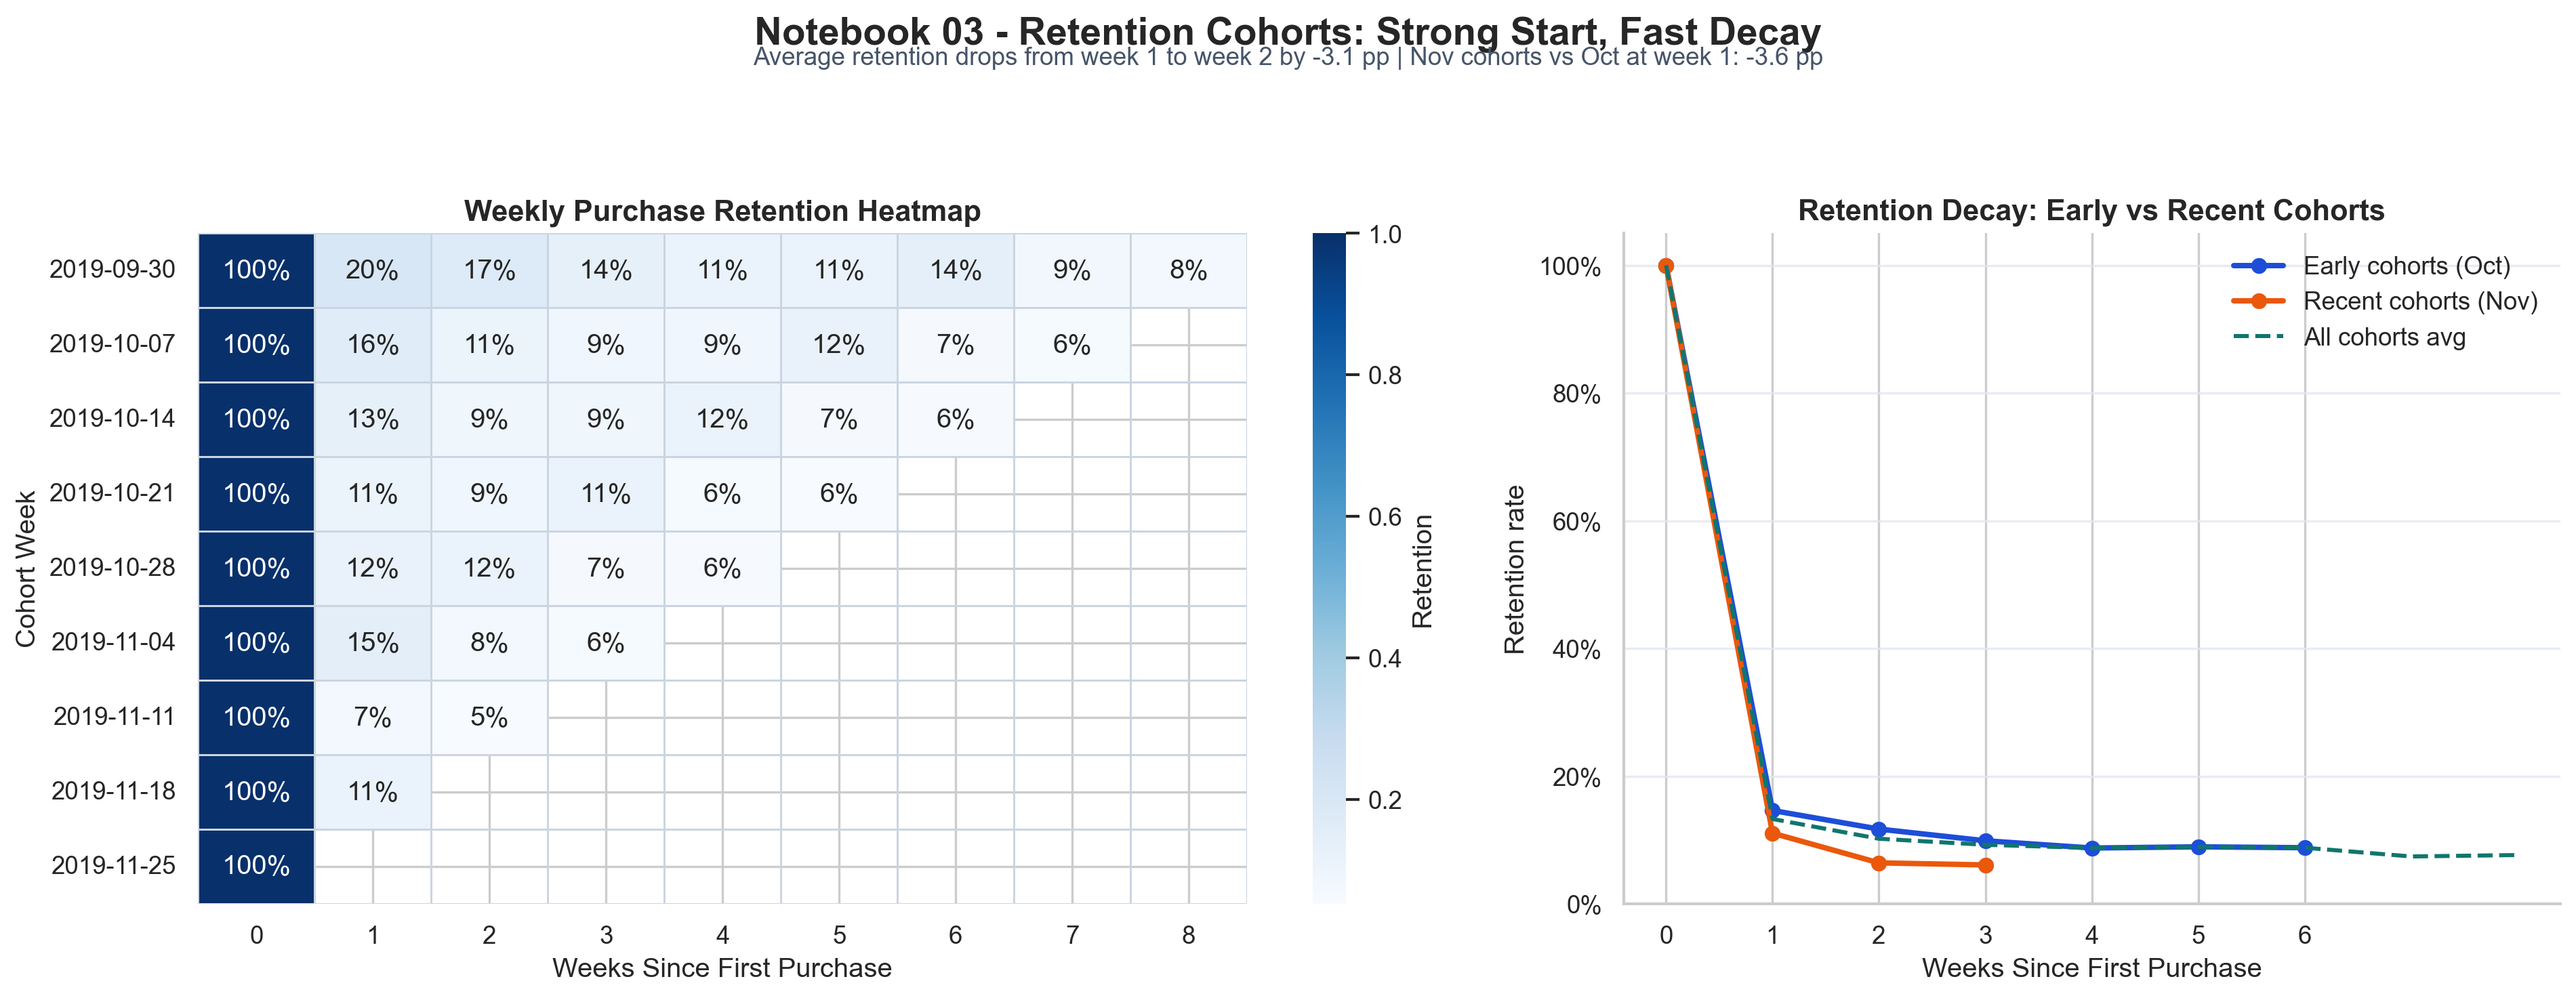
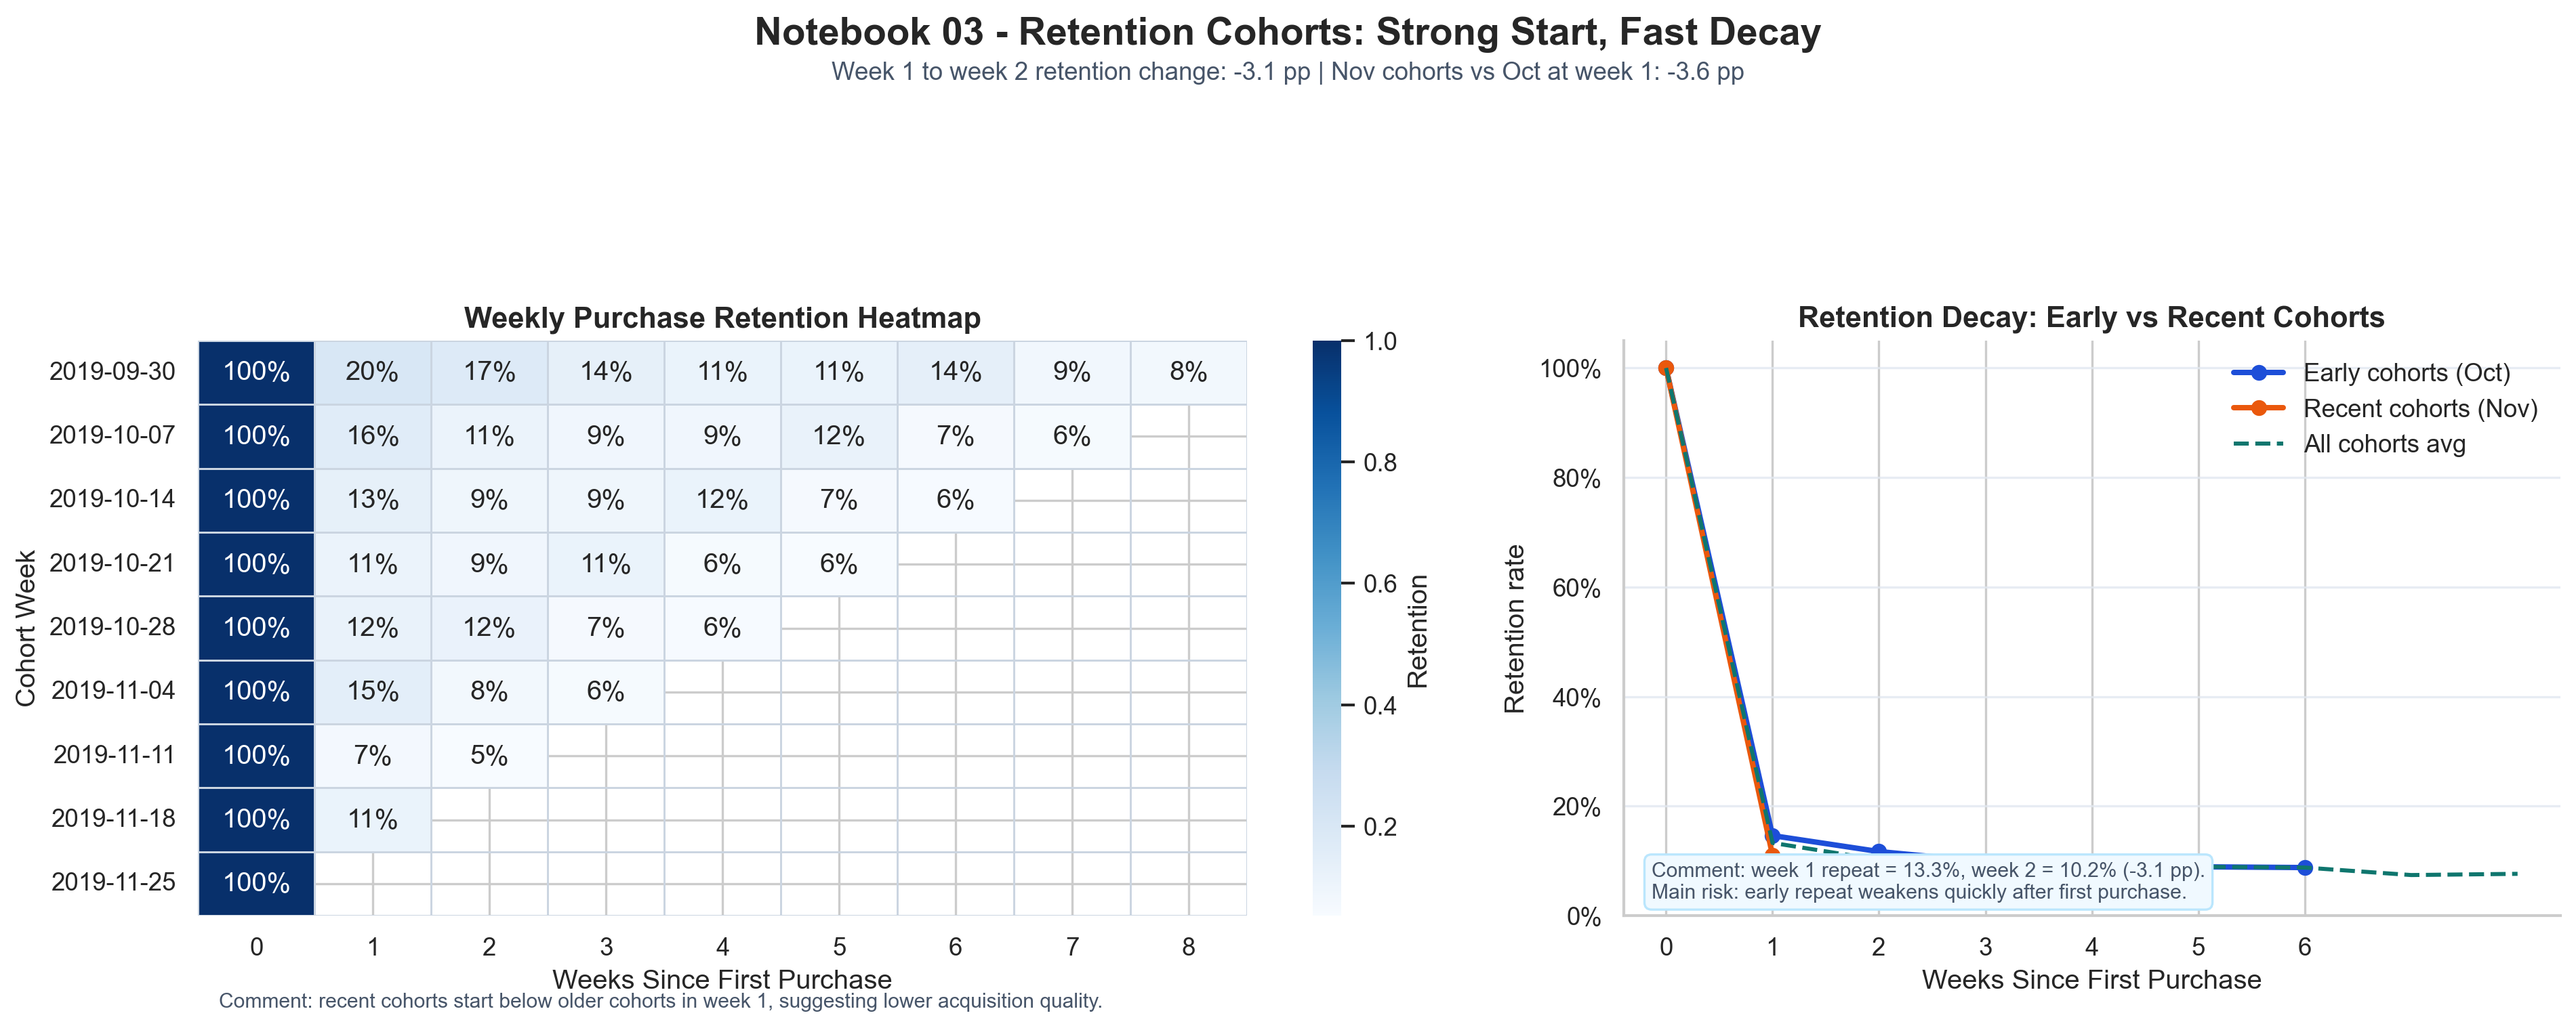
refine chart narrative and stabilize assets workflow

diff --git a/docs/index.html b/docs/index.html
@@ -33,17 +33,17 @@
 
     <p>
       <strong>Business Summary:</strong>
-      This analysis investigates why revenue grew month-over-month and which levers drove performance.
-      The focus is funnel efficiency, pricing behavior, and retention dynamics to simulate how a Growth Analytics team supports product and marketing decisions.
+      This case study explains what drove revenue growth between October and November 2019 and where conversion quality weakened.
+      The focus is funnel efficiency, cohort retention, and monetization mix to support product, lifecycle, and merchandising decisions.
     </p>
 
     <div class="divider"></div>
 
     <ul>
-      <li><strong>View-to-cart doubled</strong> in November, driven by premium categories</li>
-      <li><strong>Revenue grew MoM</strong> and is dominated by high-priced items</li>
-      <li><strong>Strong early repeat behavior</strong>, with a sharp drop after week 2</li>
-      <li><strong>Observed LTV varies by cohort</strong>; recent cohorts show lower early value</li>
+      <li><strong>View-to-cart rose from 11.2% to 22.4%</strong>, while cart-to-purchase dropped from 60.2% to 48.4%</li>
+      <li><strong>Revenue grew +19.7% MoM</strong>, with 95.2% of November revenue concentrated in high-price items</li>
+      <li><strong>Retention decays early</strong>: average repeat falls from 13.3% (week 1) to 10.2% (week 2)</li>
+      <li><strong>New cohorts are less valuable early</strong>: observed LTV declines from $1,449 to $394 in the latest cohort</li>
     </ul>
 
     <div class="divider"></div>
@@ -59,17 +59,17 @@
       <div class="grid">
         <div>
           <img src="https://raw.githubusercontent.com/Victor-Garlet/growth-funnel-analytics/main/assets/funnel.png" alt="Funnel conversion by month" />
-          <p class="meta">Funnel performance by month highlights the improvement in view-to-cart conversion.</p>
+          <p class="meta">Interpretation: intent improved in the upper funnel, but checkout conversion fell, indicating friction in the final purchase step.</p>
         </div>
 
         <div>
           <img src="https://raw.githubusercontent.com/Victor-Garlet/growth-funnel-analytics/main/assets/retention.png" alt="Weekly retention heatmap by cohort" />
-          <p class="meta">Cohort retention shows strong early repeat behavior with steep decay after week 2.</p>
+          <p class="meta">Interpretation: repeat behavior is front-loaded, and newer cohorts start weaker than older cohorts in week 1.</p>
         </div>
 
         <div>
           <img src="https://raw.githubusercontent.com/Victor-Garlet/growth-funnel-analytics/main/assets/revenue.png" alt="Revenue by price segment" />
-          <p class="meta">Revenue is concentrated in high-priced items, while lower segments bring engagement but limited monetization.</p>
+          <p class="meta">Interpretation: growth is monetization-led by premium products, while newer cohorts show lower observed early LTV.</p>
         </div>
       </div>
 

diff --git a/generate_portfolio_assets.py b/generate_portfolio_assets.py
@@ -295,22 +295,49 @@ def save_funnel_chart(funnel: pd.DataFrame, tracking_gap: pd.DataFrame, out_path
     v2c_pp = (nov_row["view_to_cart_rate"] - oct_row["view_to_cart_rate"]) * 100
     c2p_pp = (nov_row["cart_to_purchase_rate"] - oct_row["cart_to_purchase_rate"]) * 100
     v2p_pp = (nov_row["view_to_purchase_rate"] - oct_row["view_to_purchase_rate"]) * 100
+    view_mom = (nov_row["view_users"] - oct_row["view_users"]) / oct_row["view_users"]
+    cart_mom = (nov_row["cart_users"] - oct_row["cart_users"]) / oct_row["cart_users"]
     nov_gap = tracking_gap.loc[tracking_gap["event_month"] == "2019-11", "share_without_cart"].iloc[0]
 
-    fig.suptitle("Notebook 02 - Growth Funnel: Momentum vs Friction", fontsize=17, fontweight="bold", y=1.02)
+    ax_rates.text(
+        0.02,
+        0.03,
+        (
+            f"Comment: top-of-funnel intent improved strongly (+{v2c_pp:.1f} pp),\n"
+            f"but checkout efficiency dropped ({c2p_pp:.1f} pp)."
+        ),
+        transform=ax_rates.transAxes,
+        fontsize=9,
+        color=MUTED,
+        bbox={"facecolor": "#EEF2FF", "edgecolor": "#C7D2FE", "boxstyle": "round,pad=0.35"},
+    )
+    ax_volumes.text(
+        0.02,
+        0.03,
+        (
+            f"Comment: cart users grew {cart_mom:+.0%} vs view users {view_mom:+.0%}.\n"
+            "Priority: audit checkout and payment-drop diagnostics."
+        ),
+        transform=ax_volumes.transAxes,
+        fontsize=9,
+        color=MUTED,
+        bbox={"facecolor": "#ECFDF5", "edgecolor": "#A7F3D0", "boxstyle": "round,pad=0.35"},
+    )
+
+    fig.suptitle("Notebook 02 - Growth Funnel: Momentum vs Friction", fontsize=17, fontweight="bold", y=1.08)
     fig.text(
         0.5,
-        0.97,
+        1.015,
         (
-            f"MoM: View->Cart {v2c_pp:+.1f} pp | Cart->Purchase {c2p_pp:+.1f} pp | "
-            f"View->Purchase {v2p_pp:+.1f} pp | Nov purchases without cart event: {pct(nov_gap)}"
+            f"View->Cart {v2c_pp:+.1f} pp | Cart->Purchase {c2p_pp:+.1f} pp | "
+            f"View->Purchase {v2p_pp:+.1f} pp | Purchases without cart event (Nov): {pct(nov_gap)}"
         ),
         ha="center",
         fontsize=11,
         color=MUTED,
     )
 
-    plt.tight_layout(rect=[0, 0, 1, 0.93])
+    plt.tight_layout(rect=[0, 0, 1, 0.88])
     fig.savefig(out_path, bbox_inches="tight")
     plt.close(fig)
 
@@ -402,17 +429,38 @@ def save_retention_chart(retention: pd.DataFrame, out_path: Path, dpi: int) -> N
         gap = (nov_wk1.iloc[0] - oct_wk1.iloc[0]) * 100
         gap_text = f" | Nov cohorts vs Oct at week 1: {gap:+.1f} pp"
 
-    fig.suptitle("Notebook 03 - Retention Cohorts: Strong Start, Fast Decay", fontsize=17, fontweight="bold", y=1.02)
+    ax_curve.text(
+        0.03,
+        0.03,
+        (
+            f"Comment: week 1 repeat = {wk1:.1%}, week 2 = {wk2:.1%} ({decay:+.1f} pp).\n"
+            "Main risk: early repeat weakens quickly after first purchase."
+        ),
+        transform=ax_curve.transAxes,
+        fontsize=9,
+        color=MUTED,
+        bbox={"facecolor": "#F0F9FF", "edgecolor": "#BAE6FD", "boxstyle": "round,pad=0.35"},
+    )
+    ax_heatmap.text(
+        0.02,
+        -0.16,
+        "Comment: recent cohorts start below older cohorts in week 1, suggesting lower acquisition quality.",
+        transform=ax_heatmap.transAxes,
+        fontsize=9,
+        color=MUTED,
+    )
+
+    fig.suptitle("Notebook 03 - Retention Cohorts: Strong Start, Fast Decay", fontsize=17, fontweight="bold", y=1.08)
     fig.text(
         0.5,
-        0.97,
-        f"Average retention drops from week 1 to week 2 by {decay:+.1f} pp{gap_text}",
+        1.015,
+        f"Week 1 to week 2 retention change: {decay:+.1f} pp{gap_text}",
         ha="center",
         fontsize=11,
         color=MUTED,
     )
 
-    plt.tight_layout(rect=[0, 0, 1, 0.93])
+    plt.tight_layout(rect=[0, 0, 1, 0.88])
     fig.savefig(out_path, bbox_inches="tight")
     plt.close(fig)
 
@@ -512,10 +560,35 @@ def save_revenue_chart(revenue: pd.DataFrame, ltv: pd.DataFrame, out_path: Path,
     )
 
     ltv_drop = (last_cohort["observed_ltv"] - first_cohort["observed_ltv"]) / first_cohort["observed_ltv"]
-    fig.suptitle("Notebook 04 - Revenue and LTV: Growth Concentrated in Premium SKUs", fontsize=17, fontweight="bold", y=1.02)
+    ax_mix.text(
+        0.02,
+        0.03,
+        (
+            f"Comment: high-price products represent {high_share_nov:.1%} of Nov revenue.\n"
+            "Growth is monetization-led, not broad-based across low/mid price ranges."
+        ),
+        transform=ax_mix.transAxes,
+        fontsize=9,
+        color=MUTED,
+        bbox={"facecolor": "#ECFDF5", "edgecolor": "#A7F3D0", "boxstyle": "round,pad=0.35"},
+    )
+    ax_ltv.text(
+        0.03,
+        0.03,
+        (
+            f"Comment: observed LTV fell from ${first_cohort['observed_ltv']:,.0f}\n"
+            f"to ${last_cohort['observed_ltv']:,.0f} in newer cohorts."
+        ),
+        transform=ax_ltv.transAxes,
+        fontsize=9,
+        color=MUTED,
+        bbox={"facecolor": "#FFF7ED", "edgecolor": "#FED7AA", "boxstyle": "round,pad=0.35"},
+    )
+
+    fig.suptitle("Notebook 04 - Revenue and LTV: Growth Concentrated in Premium SKUs", fontsize=17, fontweight="bold", y=1.08)
     fig.text(
         0.5,
-        0.97,
+        1.015,
         (
             f"MoM revenue growth: {rev_mom:+.1%} | Nov high-price share: {high_share_nov:.1%} | "
             f"Observed LTV change (first vs latest cohort): {ltv_drop:+.1%}"
@@ -525,7 +598,7 @@ def save_revenue_chart(revenue: pd.DataFrame, ltv: pd.DataFrame, out_path: Path,
         color=MUTED,
     )
 
-    plt.tight_layout(rect=[0, 0, 1, 0.93])
+    plt.tight_layout(rect=[0, 0, 1, 0.88])
     fig.savefig(out_path, bbox_inches="tight")
     plt.close(fig)
 
